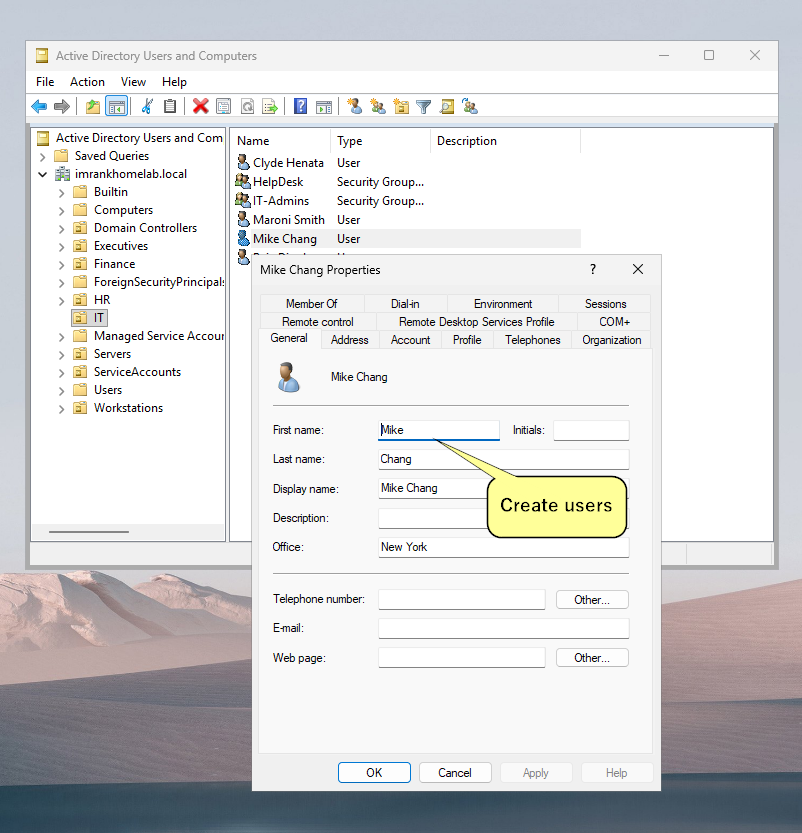
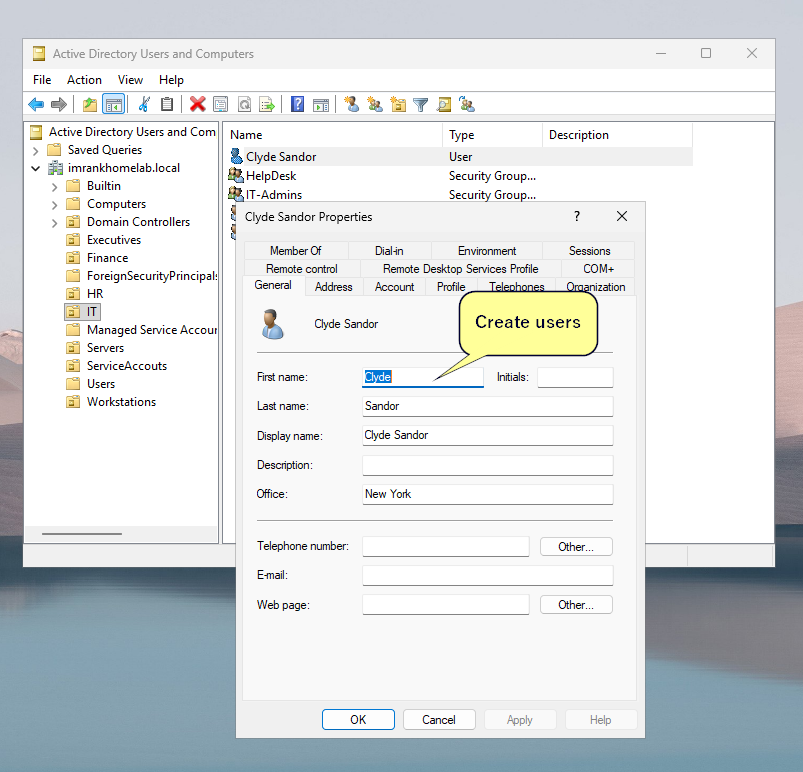
Add files via upload

diff --git a/homelab/chapter-1.html b/homelab/chapter-1.html
@@ -15,7 +15,7 @@
         <link rel="stylesheet" href="../css/font-awesome.min.css">
         <link rel="stylesheet" href="../css/et-line.css">
         <link rel="stylesheet" href="../css/style.css">
-        <link rel="stylesheet" href="../css/theme.css?v=15">
+        <link rel="stylesheet" href="../css/theme.css?v=16">
         <script>(function(){try{var t=localStorage.getItem('ik-theme');if(t==='dark'){document.documentElement.setAttribute('data-theme','dark');}}catch(e){}})();</script>
     </head>
     <body>
@@ -44,6 +44,7 @@
                     <ul class="nav navbar-nav nav-centered">
                         <li><a href="../index.html#homelab" class="chapter-page-nav"><i class="fa fa-angle-left" aria-hidden="true"></i> Back to homepage</a></li>
                     </ul>
+                    <div class="nav-spacer-right" aria-hidden="true"></div>
                 </div>
             </div>
         </nav>
@@ -52,14 +53,11 @@
             <div class="container">
                 <span class="ch-label">Chapter 01 — Build</span>
                 <h1>Lab Build &amp; Domain Standup</h1>
-                <p class="ch-sub">Spinning up Active Directory domain controller, joining client workstations, and seeding the environment with users, OUs for mock enterprise company "ImranKHomelab"</p>
+                <p class="ch-sub">Spinning up the Active Directory domain controller, joining client workstations, and seeding the environment with users, OUs, and a deliberately weak service account so later chapters have something realistic to attack.</p>
                 <div class="chapter-nav">
                     <span class="chnav-btn chnav-disabled" aria-disabled="true"><i class="fa fa-angle-left" aria-hidden="true"></i> Previous Chapter</span>
                     <a class="chnav-btn chnav-primary" href="../index.html#homelab"><i class="fa fa-th" aria-hidden="true"></i> See All Chapters</a>
-                    <!---
                     <a class="chnav-btn" href="chapter-2.html">Next Chapter <i class="fa fa-angle-right" aria-hidden="true"></i></a>
-
-                -->
                 </div>
             </div>
         </section>
@@ -83,7 +81,7 @@
                     <!-- Walkthrough -->
                     <div class="chapter-section">
                         <h2>Build Walkthrough</h2>
-                        <p class="section-lead">
+                        <p class="section-lead">End-to-end walkthrough of standing up the domain — from creating the virtual network through getting the first user logged in. Click any screenshot to enlarge.</p>
 
                         <div class="walkthrough">
 
@@ -92,9 +90,9 @@
                                 <span class="wt-step-num">1</span>
                                 <span class="wt-step-tag">Networking</span>
                                 <h3 class="wt-step-title">Create the LabNet virtual network</h3>
-                                <p class="wt-step-summary">In VirtualBox, created an isolated NAT network called <code>LabNet</code> on the <code>10.0.2.0/24</code> subnet. This will be the private wire that DC01 and all client VMs share.</p>
+                                <p class="wt-step-summary">In VirtualBox, created an isolated NAT network called <code>LabNet</code> on the <code>10.0.2.0/24</code> subnet with DHCP enabled. This will be the private wire that DC01 and all client VMs share, isolated from the host network and the public internet.</p>
                                 <a class="wt-shot" href="../img/homelab/ch1/1.png"><img src="../img/homelab/ch1/1.png" alt="VirtualBox NAT Network LabNet"></a>
-                                
+                                <div class="wt-shot-caption">VirtualBox NAT Networks — LabNet, 10.0.2.0/24, DHCP enabled</div>
                             </div>
 
                             <!-- Step 2 -->
@@ -102,9 +100,9 @@
                                 <span class="wt-step-num">2</span>
                                 <span class="wt-step-tag">Networking</span>
                                 <h3 class="wt-step-title">Attach the Windows Server VM to LabNet</h3>
-                                <p class="wt-step-summary">On VM that will soon be our DC, changed Adapter 1 from the default NAT to the new <code>LabNet</code> NAT network. This puts the server on the private lab subnet where it can serve as DHCP/DNS for everything else.</p>
+                                <p class="wt-step-summary">On the future DC VM, changed Adapter 1 from the default NAT to the new <code>LabNet</code> NAT network. This puts the server on the private lab subnet where it can serve as DHCP/DNS for everything else.</p>
                                 <a class="wt-shot" href="../img/homelab/ch1/2.png"><img src="../img/homelab/ch1/2.png" alt="VM Network adapter attached to LabNet"></a>
-                               
+                                <div class="wt-shot-caption">VM Settings → Network → Adapter 1 attached to NAT Network "LabNet"</div>
                             </div>
 
                             <!-- Step 3 -->
@@ -112,9 +110,9 @@
                                 <span class="wt-step-num">3</span>
                                 <span class="wt-step-tag">Server Setup</span>
                                 <h3 class="wt-step-title">Rename the server to DC01</h3>
-                                <p class="wt-step-summary">Inside Windows Server, used <code>Rename-Computer -NewName DC01</code> to give the box a meaningful name before promotion.</p>
+                                <p class="wt-step-summary">Inside Windows Server, used <code>Rename-Computer -NewName DC01</code> to give the box a meaningful name before promotion. A reboot is required for the change to take effect.</p>
                                 <a class="wt-shot" href="../img/homelab/ch1/3.png"><img src="../img/homelab/ch1/3.png" alt="PowerShell Rename-Computer DC01"></a>
-                                
+                                <div class="wt-shot-caption">PowerShell — Rename-Computer -NewName DC01</div>
                             </div>
 
                             <!-- Step 4 -->
@@ -122,7 +120,7 @@
                                 <span class="wt-step-num">4</span>
                                 <span class="wt-step-tag">Networking</span>
                                 <h3 class="wt-step-title">Assign DC01 a static IP and self-pointing DNS</h3>
-                                <p class="wt-step-summary">Set a static IPv4 address of <code>10.0.2.10</code> with gateway <code>10.0.2.1</code>, then pointed the DNS client at <code>127.0.0.1</code> so the DC resolves itself once promoted. A domain controller without stable IP + DNS will not behave as expected.</p>
+                                <p class="wt-step-summary">Set a static IPv4 address of <code>10.0.2.10</code> with gateway <code>10.0.2.1</code>, then pointed the DNS client at <code>127.0.0.1</code> so the DC resolves itself once promoted. A domain controller without stable IP + DNS is asking for replication and authentication weirdness later.</p>
                                 <a class="wt-shot" href="../img/homelab/ch1/4.png"><img src="../img/homelab/ch1/4.png" alt="Static IP and DNS configuration"></a>
                                 <div class="wt-shot-caption">New-NetIPAddress + Set-DnsClientServerAddress — confirmed via Get-NetIPConfiguration</div>
                             </div>
@@ -132,8 +130,9 @@
                                 <span class="wt-step-num">5</span>
                                 <span class="wt-step-tag">AD Role</span>
                                 <h3 class="wt-step-title">Install the AD-Domain-Services and DNS roles</h3>
-                                <p class="wt-step-summary"><code>Install-WindowsFeature AD-Domain-Services, DNS -IncludeManagementTools</code> stages the tools needed to utilize ADDS and DNS services. This only installs; the next step promotes the server.</p>
-                                <a class="wt-shot" href="../img/homelab/ch1/5.png"><img src="../img/homelab/ch1/5.png" alt="Install-WindowsFeature AD-Domain-Services DNS"></a>            
+                                <p class="wt-step-summary"><code>Install-WindowsFeature AD-Domain-Services, DNS -IncludeManagementTools</code> stages the role binaries and tooling. No restart needed yet — this only installs; the next step actually promotes the server.</p>
+                                <a class="wt-shot" href="../img/homelab/ch1/5.png"><img src="../img/homelab/ch1/5.png" alt="Install-WindowsFeature AD-Domain-Services DNS"></a>
+                                <div class="wt-shot-caption">Install-WindowsFeature returns Success — AD DS and DNS Server roles staged</div>
                             </div>
 
                             <!-- Step 6 -->
@@ -141,8 +140,9 @@
                                 <span class="wt-step-num">6</span>
                                 <span class="wt-step-tag">AD Forest</span>
                                 <h3 class="wt-step-title">Promote DC01 to the first domain controller</h3>
-                                <p class="wt-step-summary"><code>Install-ADDSForest</code> creates the brand-new forest <code>imrankhomelab.local</code> with NetBIOS <code>IMRANKHOMELAB</code>. Set a Safe Mode Administrator (breakglass) password stored separately from any user account. The DNS delegation warning is expected in a self-contained lab.</p>
-                                <a class="wt-shot" href="../img/homelab/ch1/6.png"><img src="../img/homelab/ch1/6.png" alt="Install-ADDSForest creating imrankhomelab.local"></a>                               
+                                <p class="wt-step-summary"><code>Install-ADDSForest</code> creates the brand-new forest <code>imrankhomelab.local</code> with NetBIOS <code>IMRANKHOMELAB</code>. Set a Safe Mode Administrator (breakglass) password stored separately from any user account. The DNS delegation warning is expected in a self-contained lab — there is no parent DNS zone above us.</p>
+                                <a class="wt-shot" href="../img/homelab/ch1/6.png"><img src="../img/homelab/ch1/6.png" alt="Install-ADDSForest creating imrankhomelab.local"></a>
+                                <div class="wt-shot-caption">Install-ADDSForest — operation completed successfully, server reboots into a fully-promoted DC</div>
                             </div>
 
                             <!-- Step 7 -->
@@ -150,7 +150,7 @@
                                 <span class="wt-step-num">7</span>
                                 <span class="wt-step-tag">Verification</span>
                                 <h3 class="wt-step-title">Confirm the forest, NetBIOS name, and core services</h3>
-                                <p class="wt-step-summary">After reboot, verified the forest is live: <code>Get-ADDomain</code> returns the correct DNSRoot and NetBIOS name, <code>Get-ADForest</code> shows the schema and the four core services — ADWS, DNS, KDC, Netlogon are all running.</p>
+                                <p class="wt-step-summary">After reboot, verified the forest is live: <code>Get-ADDomain</code> returns the correct DNSRoot and NetBIOS name, <code>Get-ADForest</code> shows the schema and naming masters, and the four core services — ADWS, DNS, KDC, Netlogon — are all running. This is the "is the DC actually a DC?" smoke test.</p>
                                 <a class="wt-shot" href="../img/homelab/ch1/7.png"><img src="../img/homelab/ch1/7.png" alt="Forest, domain, and service verification"></a>
                                 <div class="wt-shot-caption">Get-ADDomain, Get-ADForest, and Get-Service ADWS,KDC,Netlogon,DNS — all green</div>
                             </div>
@@ -162,7 +162,7 @@
                                 <h3 class="wt-step-title">Create the first Organizational Unit</h3>
                                 <p class="wt-step-summary">Opened Active Directory Users and Computers and started building OUs to mimic an enterprise structure. First one: <code>IT</code>, directly under <code>imrankhomelab.local</code>. Intentionally left "Protect container from accidental deletion" unchecked so the lab is easy to tear down later.</p>
                                 <a class="wt-shot" href="../img/homelab/ch1/8.png"><img src="../img/homelab/ch1/8.png" alt="Creating IT Organizational Unit"></a>
-                                
+                                <div class="wt-shot-caption">New Object → Organizational Unit → IT</div>
                             </div>
 
                             <!-- Step 9 -->
@@ -172,7 +172,7 @@
                                 <h3 class="wt-step-title">Build out a realistic OU hierarchy</h3>
                                 <p class="wt-step-summary">Created the full set of department OUs to mirror a small enterprise: <code>Executives</code>, <code>Finance</code>, <code>HR</code>, <code>IT</code>, <code>Servers</code>, <code>ServiceAccounts</code>, <code>Users</code>, and <code>Workstations</code>. Real environments have this kind of separation; the lab now does too, which means later GPO scoping and delegation exercises will be meaningful.</p>
                                 <a class="wt-shot" href="../img/homelab/ch1/9.png"><img src="../img/homelab/ch1/9.png" alt="Full OU hierarchy in ADUC"></a>
-                                
+                                <div class="wt-shot-caption">Full OU tree under imrankhomelab.local</div>
                             </div>
 
                             <!-- Step 10 -->
@@ -180,7 +180,7 @@
                                 <span class="wt-step-num">10</span>
                                 <span class="wt-step-tag">Groups</span>
                                 <h3 class="wt-step-title">Create security groups inside each OU</h3>
-                                <p class="wt-step-summary">Inside <code>Executives</code>, created a Global Security group called <code>Executives</code>. Repeated this pattern across the other OUs so that permissions can be assigned to groups rather than individual users.</p>
+                                <p class="wt-step-summary">Inside <code>Executives</code>, created a Global Security group called <code>Executives</code>. Repeated this pattern across the other OUs (HelpDesk, IT-Admins, etc.) so that permissions can be assigned to groups rather than individual users — the way it should be done in production.</p>
                                 <a class="wt-shot" href="../img/homelab/ch1/10.png"><img src="../img/homelab/ch1/10.png" alt="Create security group Executives"></a>
                                 <div class="wt-shot-caption">New Object → Group → Executives (Global / Security)</div>
                             </div>
@@ -190,7 +190,7 @@
                                 <span class="wt-step-num">11</span>
                                 <span class="wt-step-tag">Users</span>
                                 <h3 class="wt-step-title">Seed user accounts across departments</h3>
-                                <p class="wt-step-summary">Created realistic user accounts for each department - names, displays, office (New York), and dropped them into the correct OUs. Examples: Clyde Henata in IT, plus the rest of the users. </p>
+                                <p class="wt-step-summary">Created realistic user accounts for each department — names, displays, office (New York), and dropped them into the correct OUs. Examples: Clyde Sandor in IT, Shia Lee, Snola Banee, plus the rest of the roster (mchang, ppatel, lgarcia, orashid, jsmith and others).</p>
                                 <a class="wt-shot" href="../img/homelab/ch1/11.png"><img src="../img/homelab/ch1/11.png" alt="Create user Clyde Sandor"></a>
                                 <div class="wt-shot-caption">New User → Clyde Sandor in IT OU</div>
                             </div>
@@ -199,38 +199,28 @@
                             <div class="wt-step">
                                 <span class="wt-step-num">12</span>
                                 <span class="wt-step-tag">Privilege Design (intentionally weak)</span>
-                                <h3 class="wt-step-title">Assign group memberships - including some that shouldn't exist</h3>
-                                <p class="wt-step-summary">Added users to group memberships. Some assignments are intentional malpractice such as regular users assigned as <code>Domain Admins</code>, mimicking the flat-privilege environments that attackers love. This is the weak posture later chapters will demonstrate breaking, then harden.</p>
+                                <h3 class="wt-step-title">Assign group memberships — including some that shouldn't exist</h3>
+                                <p class="wt-step-summary">Added users to group memberships. Some assignments are intentionally bad: regular users sit in <code>Domain Admins</code>, mimicking the flat-privilege environments that attackers love. This is the weak posture later chapters will demonstrate breaking, then harden.</p>
                                 <a class="wt-shot" href="../img/homelab/ch1/12.png"><img src="../img/homelab/ch1/12.png" alt="User added to Domain Admins"></a>
-                                
+                                <div class="wt-shot-caption">Clyde Sandor — Member Of → Domain Admins (intentionally poor design)</div>
                             </div>
 
-                             <!-- Step 13 -->
+                            <!-- Step 13 -->
                             <div class="wt-step">
                                 <span class="wt-step-num">13</span>
-                                <span class="wt-step-tag">Service Account Creation</span>
-                                <h3 class="wt-step-title">Create a service account</h3>
-                                <p class="wt-step-summary">Created a service account for Mike Chang's account which is also a Domain Admin. Note the SQL service account which we will compromise in future chapters</p>
-                                <a class="wt-shot" href="../img/homelab/ch1/12a.png"><img src="../img/homelab/ch1/12a.png" alt="User added to Domain Admins"></a>
-                                
-                            </div>
-
-                            <!-- Step 14 -->
-                            <div class="wt-step">
-                                <span class="wt-step-num">14</span>
                                 <span class="wt-step-tag">DHCP</span>
                                 <h3 class="wt-step-title">Stand up DHCP on the DC for client auto-config</h3>
-                                <p class="wt-step-summary">Turned off DHCP server in hypervisor LabNet settings from step 1. Installed the DHCP role, authorized it in AD to prevent rogue DHCP servers, then created a scope <code>LabNet-Scope</code> covering <code>10.0.2.100 → 10.0.2.200</code>.</p>
+                                <p class="wt-step-summary">Installed the DHCP role, authorized it in AD to prevent rogue DHCP servers, then created a scope <code>LabNet-Scope</code> covering <code>10.0.2.100 → 10.0.2.200</code>. Set scope options so clients auto-discover the router (<code>10.0.2.1</code>), the DNS server (<code>10.0.2.10</code> = DC01), and the search domain (<code>imrankhomelab.local</code>). With this in place, new client VMs join the lab network and find the DC without manual config.</p>
                                 <a class="wt-shot" href="../img/homelab/ch1/13.png"><img src="../img/homelab/ch1/13.png" alt="DHCP install and scope configuration"></a>
-                                
+                                <div class="wt-shot-caption">Install-WindowsFeature DHCP → Add-DhcpServerInDC → Add-DhcpServerv4Scope → Set-DhcpServerv4OptionValue</div>
                             </div>
 
-                            <!-- Step 15a + 15b -->
+                            <!-- Step 13a + 13b -->
                             <div class="wt-step">
-                                <span class="wt-step-num">15</span>
+                                <span class="wt-step-num">14</span>
                                 <span class="wt-step-tag">Client Side</span>
-                                <h3 class="wt-step-title">Workstation prepped to join the domain</h3>
-                                <p class="wt-step-summary">On a fresh client VM, after the client picked up DHCP, repointed DNS at <code>10.0.2.10</code>, flushed the cache, and ran <code>nslookup imrankhomelab.local</code> — resolution succeeded against DC01. With DNS healthy, opened System Properties → begin the domain join.</p>
+                                <h3 class="wt-step-title">Validate DNS resolution from a client and start domain join</h3>
+                                <p class="wt-step-summary">On a fresh client VM, after the client picked up DHCP, repointed DNS at <code>10.0.2.10</code>, flushed the cache, and ran <code>nslookup imrankhomelab.local</code> — resolution succeeded against DC01. With DNS healthy, opened System Properties → Change settings to begin the domain join.</p>
                                 <div class="wt-shot-pair">
                                     <div>
                                         <a class="wt-shot" href="../img/homelab/ch1/13a.png"><img src="../img/homelab/ch1/13a.png" alt="nslookup imrankhomelab.local success"></a>
@@ -243,9 +233,9 @@
                                 </div>
                             </div>
 
-                            <!-- Step 16 (renamed) -->
+                            <!-- Step 14 (renamed) -->
                             <div class="wt-step">
-                                <span class="wt-step-num">16</span>
+                                <span class="wt-step-num">15</span>
                                 <span class="wt-step-tag">Domain Join</span>
                                 <h3 class="wt-step-title">First client successfully joins the domain</h3>
                                 <p class="wt-step-summary">The client machine (mchang's workstation) receives the "Welcome to the imrankhomelab.local domain" confirmation. That's the moment the lab becomes a real, functioning domain — there's now a relationship between this endpoint and the DC, and the user's domain credentials will work here after reboot.</p>
@@ -253,14 +243,14 @@
                                 <div class="wt-shot-caption">Welcome to the imrankhomelab.local domain — first endpoint joined</div>
                             </div>
 
-                            <!-- Step 17 -->
+                            <!-- Step 15 -->
                             <div class="wt-step">
-                                <span class="wt-step-num">17</span>
+                                <span class="wt-step-num">16</span>
                                 <span class="wt-step-tag">Verification</span>
                                 <h3 class="wt-step-title">Log in as a domain user</h3>
                                 <p class="wt-step-summary">After reboot, logged into the workstation using domain credentials (<code>IMRANKHOMELAB\mchang</code>). The Windows 11 welcome screen authenticating against the DC confirms end-to-end success: DC promoted, DHCP serving, DNS resolving, client joined, domain credential validated.</p>
                                 <a class="wt-shot" href="../img/homelab/ch1/15.png"><img src="../img/homelab/ch1/15.png" alt="Mike Chang logged into domain"></a>
-                               
+                                <div class="wt-shot-caption">Mike Chang — Welcome — first domain login on the joined workstation</div>
                             </div>
 
                         </div>
@@ -268,13 +258,14 @@
 
                     <!-- Findings -->
                     <div class="chapter-section">
-                        <h2>Findings</h2>
+                        <h2>Findings &amp; Intentional Weak Spots</h2>
                         <p class="section-lead">Observations from the build phase — the conditions later chapters will exploit and then remediate.</p>
                         <ul class="findings-list">
                             <li><strong>Flat admin model</strong>Regular users sit inside Domain Admins. No Tier-0 separation. A single endpoint compromise can lead straight to forest takeover.</li>
-                            <li><strong>Service account in step 13 ready to be Kerberoasted</strong>The ServiceAccounts OU will hold an SPN-bound account (<code>svc_sqlserver</code>) with a weak password.</li>
+                            <li><strong>Service account ready to be Kerberoasted</strong>The ServiceAccounts OU will hold an SPN-bound account (<code>svc_sqlserver</code>) with a weak password — the exact attack surface for Chapter 2.</li>
                             <li><strong>No password policy hardening</strong>Default domain password policy only. Complexity is on by default but minimum length is 7 and no fine-grained policies are applied yet.</li>
-                            <li><strong>Audit policy is default</strong>Event logs or any ingestion for that matter has not been set up yet which results in severe blindspots</li>
+                            <li><strong>Audit policy is default</strong>Kerberos service ticket events (4769) are not being captured at a granularity that would detect roasting. Logging gap noted for Chapter 3 to fix.</li>
+                            <li><strong>DHCP and DNS run on the same DC</strong>Common in small environments, fine for the lab, but a reminder that DC01 is a single point of failure for everything client-side.</li>
                         </ul>
                     </div>
 

diff --git a/index.html b/index.html
@@ -43,7 +43,7 @@
         <!-- Core Style Css -->
         <link rel="stylesheet" href="css/style.css">
         <!-- Theme system (light/dark) and Homelab styles -->
-        <link rel="stylesheet" href="css/theme.css?v=15">
+        <link rel="stylesheet" href="css/theme.css?v=16">
         <!-- Apply theme before render to avoid flash of wrong theme -->
         <script>(function(){try{var t=localStorage.getItem('ik-theme');if(t==='dark'){document.documentElement.setAttribute('data-theme','dark');}}catch(e){}})();</script>
         <!-- Light additions for new sections (case studies, skills groups, education, hero stats) -->
@@ -110,6 +110,7 @@
                             <a href="#" data-scroll-nav="9">Contact</a>
                         </li>
                     </ul>
+                    <div class="nav-spacer-right" aria-hidden="true"></div>
                 </div>
             </div>
         </nav>
@@ -248,6 +249,7 @@
                 <div class="section-head">
                     <h3>Homelab</h3>
                 </div>
+                <p class="section-subtitle">ImranKHomeLab — building, breaking, hardening, reporting</p>
                 <div class="homelab-grid">
                     <a class="homelab-card" href="homelab/chapter-1.html">
                         <div class="ch-banner">
@@ -260,7 +262,6 @@
                             <span class="ch-cta">View screenshots &amp; findings <i class="fa fa-long-arrow-right" aria-hidden="true"></i></span>
                         </div>
                     </a>
-                    <!------
                     <a class="homelab-card" href="homelab/chapter-2.html">
                         <div class="ch-banner">
                             <span class="ch-num">02</span>
@@ -282,7 +283,6 @@
                             <p>Applying Tier-0 hygiene against the same attack path: gMSA migration, password complexity, AES-only Kerberos, audit policy, and verifying the next attack iteration fails.</p>
                             <span class="ch-cta">View screenshots &amp; findings <i class="fa fa-long-arrow-right" aria-hidden="true"></i></span>
                         </div>
-                        --->
                     </a>
                 </div>
             </div>
@@ -346,9 +346,9 @@
                             <span class="case-tag">Detection &amp; Response</span>
                             <h4>MSSP / MDR Oversight &amp; Detection Tuning</h4>
                             <p class="metric">Higher-fidelity alerting, faster triage, fewer false positives</p>
-                            <p class="row-meta"><strong>Stack:</strong>MDR, Exabeam SIEM, Microsoft Defender, CrowdStrike, Darktrace</p>
+                            <p class="row-meta"><strong>Stack:</strong> Reliaquest MDR, Exabeam SIEM, Microsoft Defender, CrowdStrike, Darktrace</p>
                             <p class="row-meta"><strong>Role:</strong> Internal lead for MSSP partnership and SIEM tuning</p>
-                            <p class="desc">Acted as the firm's technical owner for the MSSP relationship. Reviewed escalations, validated severity and business impact, and partnered with MSSP on detection tuning and use-case development. Cut alert noise so escalations added measurable value.</p>
+                            <p class="desc">Acted as the firm's technical owner for the MSSP relationship. Reviewed escalations, validated severity and business impact, and partnered with Reliaquest on detection tuning and use-case development. Cut alert noise so escalations added measurable value.</p>
                             <p class="outcome"><strong>Outcome:</strong>Reduced escalation rate by 75% over two years while driving MTTR to approximately one day - converting a high-volume, low-signal alert feed into a focused detection program that gave leadership credible, actionable incident reporting.</p>
                             <div class="case-evidence" data-mfp-gallery="mssp">        
                             </div>
@@ -467,7 +467,7 @@
                                     <div class="group-title">Detection, Response &amp; SIEM</div>
                                     <div class="pill-row">
                                         <span class="pill">Exabeam SIEM</span>
-                                        <span class="pill">MSSP Management</span>
+                                        <span class="pill">Reliaquest MDR</span>
                                         <span class="pill">Darktrace</span>
                                         <span class="pill">SOAR Automation</span>
                                         <span class="pill">SIEM Tuning</span>

diff --git a/homelab/chapter-2.html b/homelab/chapter-2.html
@@ -15,7 +15,7 @@
         <link rel="stylesheet" href="../css/font-awesome.min.css">
         <link rel="stylesheet" href="../css/et-line.css">
         <link rel="stylesheet" href="../css/style.css">
-        <link rel="stylesheet" href="../css/theme.css?v=15">
+        <link rel="stylesheet" href="../css/theme.css?v=16">
         <script>(function(){try{var t=localStorage.getItem('ik-theme');if(t==='dark'){document.documentElement.setAttribute('data-theme','dark');}}catch(e){}})();</script>
     </head>
     <body>
@@ -44,6 +44,7 @@
                     <ul class="nav navbar-nav nav-centered">
                         <li><a href="../index.html#homelab" class="chapter-page-nav"><i class="fa fa-angle-left" aria-hidden="true"></i> Back to homepage</a></li>
                     </ul>
+                    <div class="nav-spacer-right" aria-hidden="true"></div>
                 </div>
             </div>
         </nav>

diff --git a/homelab/chapter-3.html b/homelab/chapter-3.html
@@ -15,7 +15,7 @@
         <link rel="stylesheet" href="../css/font-awesome.min.css">
         <link rel="stylesheet" href="../css/et-line.css">
         <link rel="stylesheet" href="../css/style.css">
-        <link rel="stylesheet" href="../css/theme.css?v=15">
+        <link rel="stylesheet" href="../css/theme.css?v=16">
         <script>(function(){try{var t=localStorage.getItem('ik-theme');if(t==='dark'){document.documentElement.setAttribute('data-theme','dark');}}catch(e){}})();</script>
     </head>
     <body>
@@ -44,6 +44,7 @@
                     <ul class="nav navbar-nav nav-centered">
                         <li><a href="../index.html#homelab" class="chapter-page-nav"><i class="fa fa-angle-left" aria-hidden="true"></i> Back to homepage</a></li>
                     </ul>
+                    <div class="nav-spacer-right" aria-hidden="true"></div>
                 </div>
             </div>
         </nav>

diff --git a/css/theme.css b/css/theme.css
@@ -19,6 +19,19 @@
         flex: 1 1 auto;
         text-align: center;
     }
+    /* Invisible right-side spacer that mirrors the switch width on the left.
+       Without this, .nav-centered (flex: 1) takes the leftover space which is
+       offset to the right of the switch — the menu centers within that offset
+       space, looking visibly off-center on smaller screens like a 13" MacBook.
+       The spacer balances the layout so the menu centers relative to the
+       viewport, not the leftover space. */
+    .navbar-default .navbar-collapse > .nav-spacer-right {
+        flex: 0 0 auto;
+        width: 73px; /* switch wrap is ~58px track + 15px left padding */
+    }
+}
+@media (max-width: 767px) {
+    .nav-spacer-right { display: none; }
 }
 /* Tighten nav item spacing so all items + the switch fit on one line.
    The template's default is margin: 25px 20px 0 — pulling that in to 8px on
